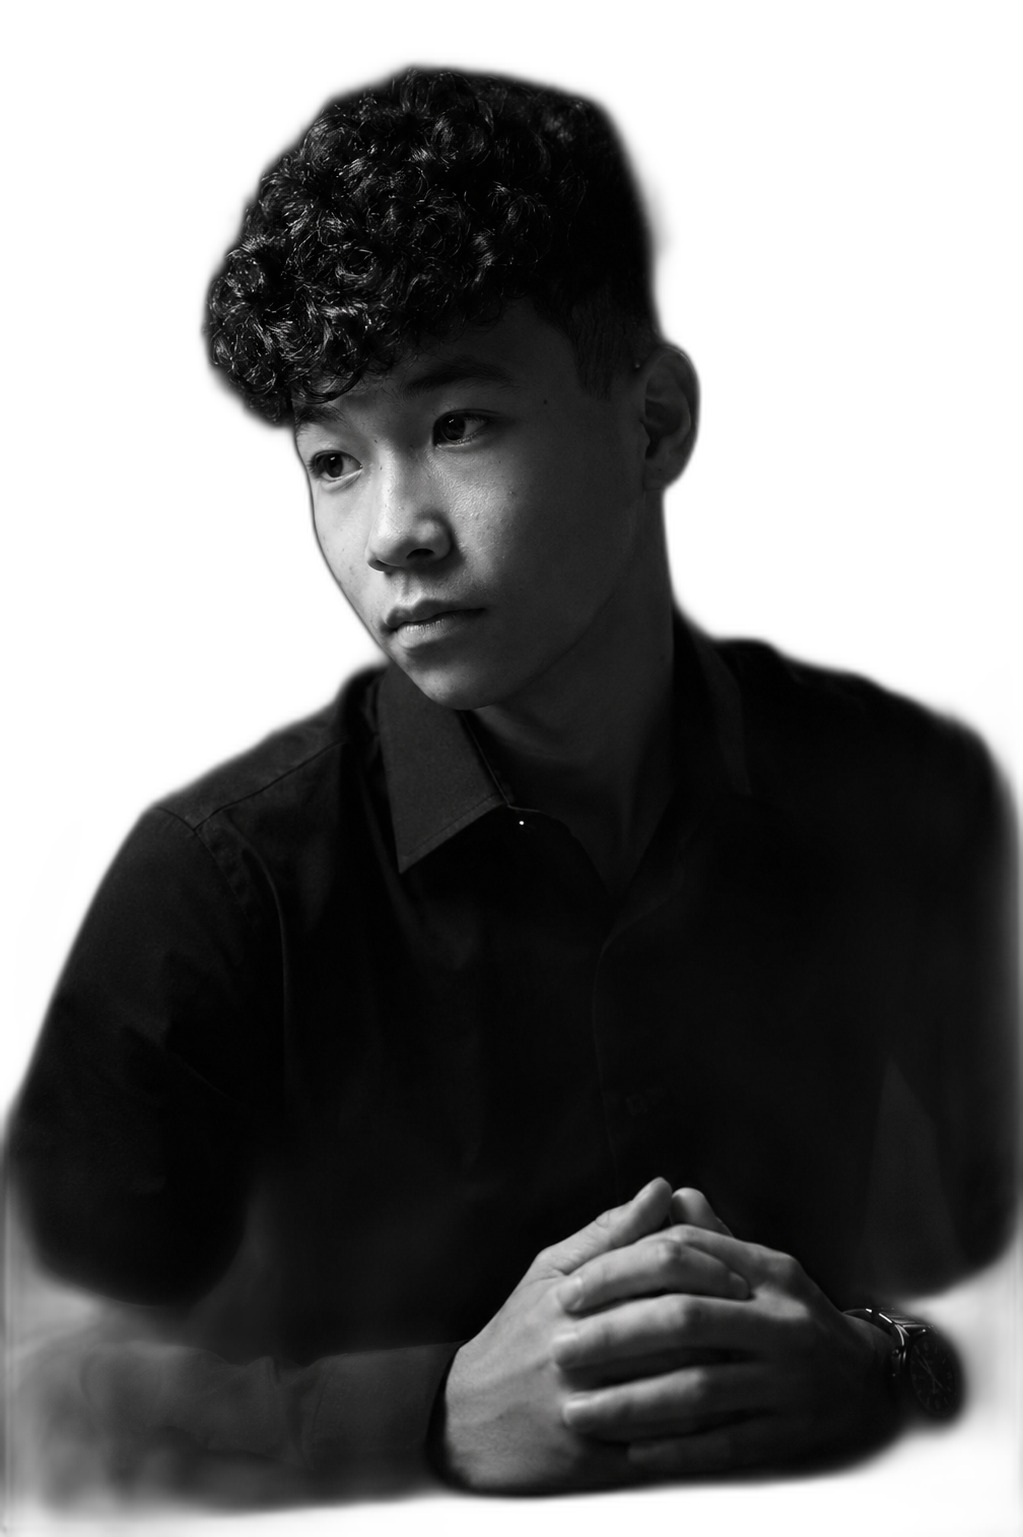
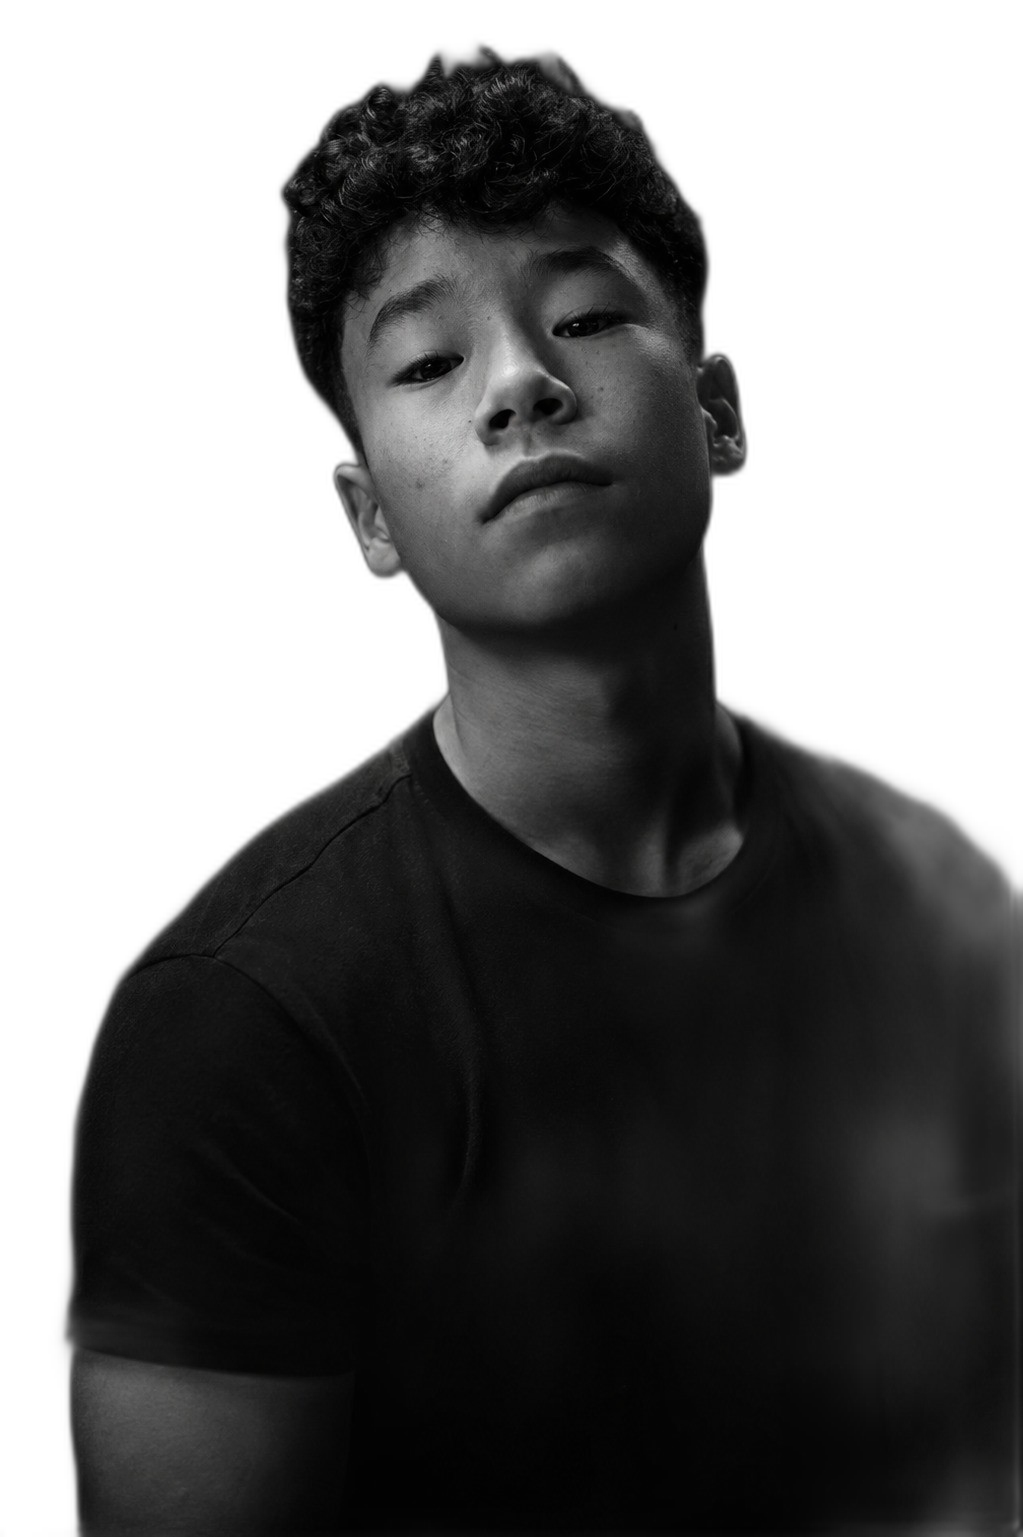
Remove texto "Portfólio" atrás da foto do hero e atualiza a foto
- Troca artur-portrait-cutout.png pela nova foto enviada (recorte de fundo via rembg)
- Remove o elemento .hero-bg-text-wrap/.hero-bg-text e o CSS órfão correspondente

diff --git a/styles.css b/styles.css
@@ -624,33 +624,6 @@ body.is-loaded .hero-v2-stats[data-hero-item] { transition-delay: 0.7s; }
   align-items: center;
 }
 
-.hero-bg-text-wrap {
-  position: absolute;
-  inset: 0;
-  z-index: 0;
-  display: flex;
-  align-items: center;
-  justify-content: flex-end;
-  pointer-events: none;
-  user-select: none;
-}
-
-.hero-bg-text {
-  width: 100%;
-  max-width: 1200px;
-  margin: 0 auto 0 0;
-  padding-inline: var(--sp-6);
-  text-align: right;
-  font-family: var(--font-display);
-  font-weight: 700;
-  font-style: italic;
-  font-size: clamp(5rem, 17vw, 13rem);
-  line-height: 1;
-  letter-spacing: -0.02em;
-  color: var(--surface-2);
-  white-space: nowrap;
-}
-
 .hero-v2 {
   position: relative;
   z-index: 2;

diff --git a/index.html b/index.html
@@ -119,10 +119,6 @@
 
   <!-- HOME / HERO -->
   <section id="home" class="hero">
-    <div class="hero-bg-text-wrap" aria-hidden="true">
-      <p class="hero-bg-text">Portfólio</p>
-    </div>
-
     <div class="container hero-v2">
       <div class="hero-topbar" data-hero-item>
         <div class="hero-kicker-group">
